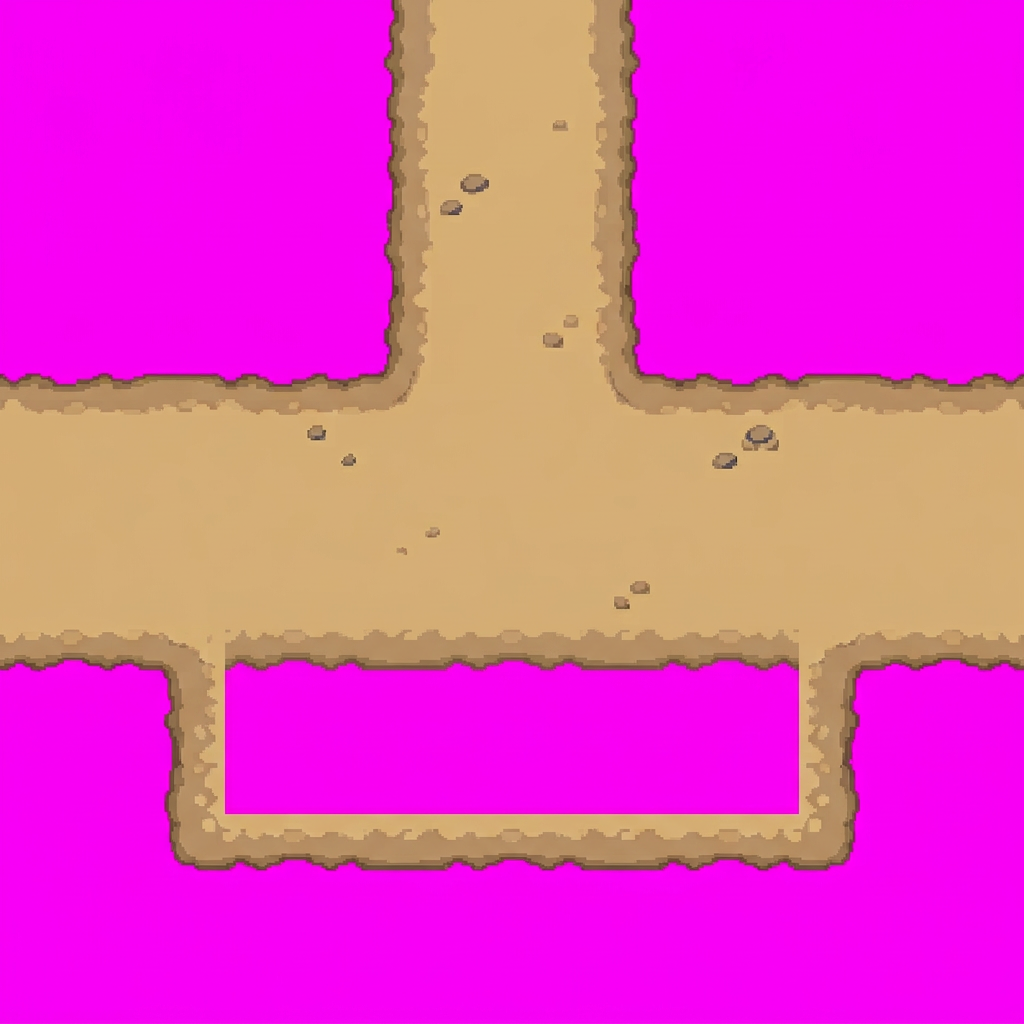
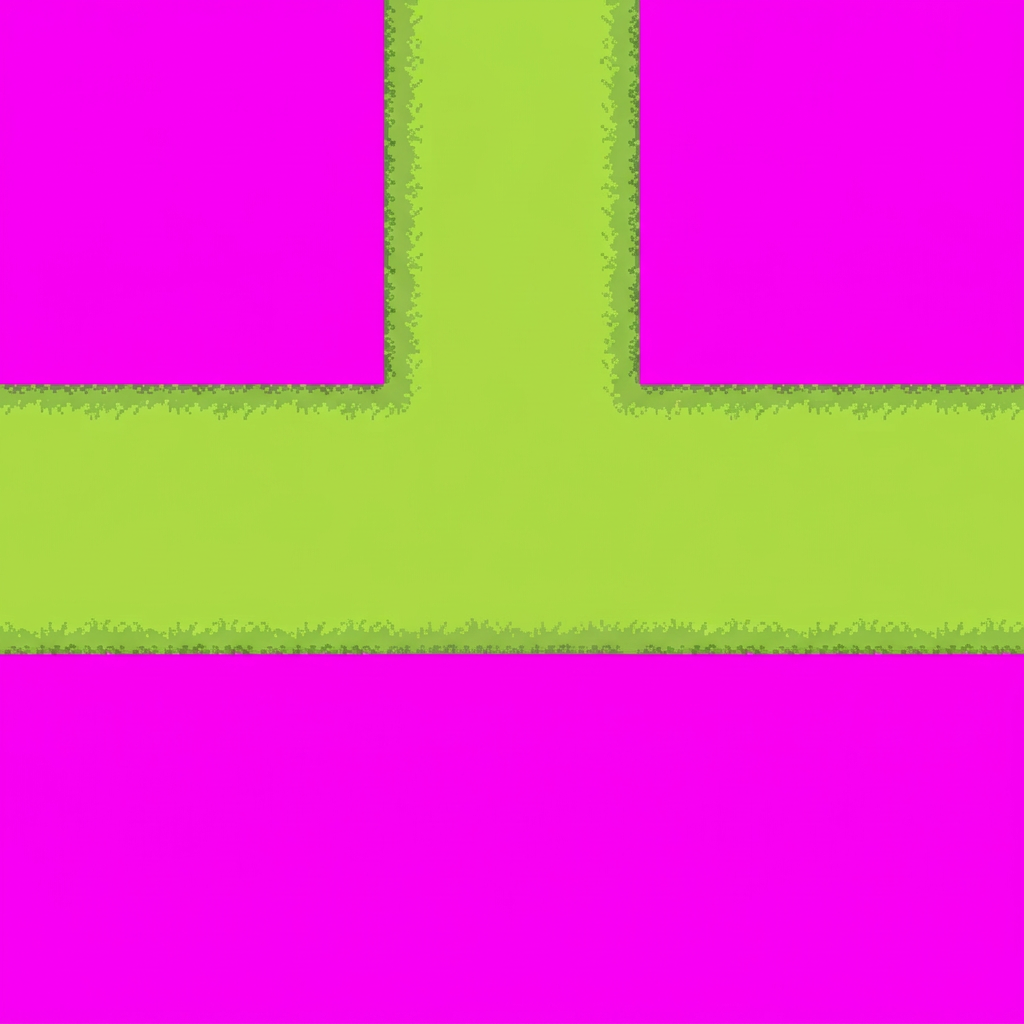
Jardin V4: chemins ew+t herbe, sols+fleurs traversee+laterale (10/10)

diff --git a/source/secretgarden_reseau_v1/GENERATION_LOG.md b/source/secretgarden_reseau_v1/GENERATION_LOG.md
@@ -39,3 +39,13 @@ parasites (blobs ew, trou U t) -> A REPRENDRE en bande/tige HERBE comme ns
 (log V4 : chemin = herbe, pas dirt) ; fleurs = herbe+bouquets (copie ref) ->
 salvage prévu par partition couleurs V3 au build (pas de reprise).
 Reste : reprises chemin ew+t + traversee/laterale/clairiere (12) = 14 générations.
+
+## V4 — traversee + laterale + reprises chemin (24 septembre 2026, 10/10)
+Reprises chemin ew (bande herbe) + t (T herbe) OK. Sols v1 traversee/laterale
+avec ARBRES (murs d'arbres) -> repris SANS arbres (rims buissonnants) : OK
+(note : 2 moignons troncs haut sol traversee, caches par bordure V3).
+fleurs traversee/laterale SANS ref (texte seul) : bouquets isoles magenta OK.
+Echec : chemins traversee/laterale = COPIES du sol (ref trop suivie) ->
+A REPRENDRE texte seul (bande N-S / L W+S positionnes). Rochers
+traversee/laterale reportes. Fleurs ew/t : salvage partition couleurs V3.
+Reste : clairiere(4) + rochers trav/lat(2) + chemins trav/lat(2) = 8 generations.
